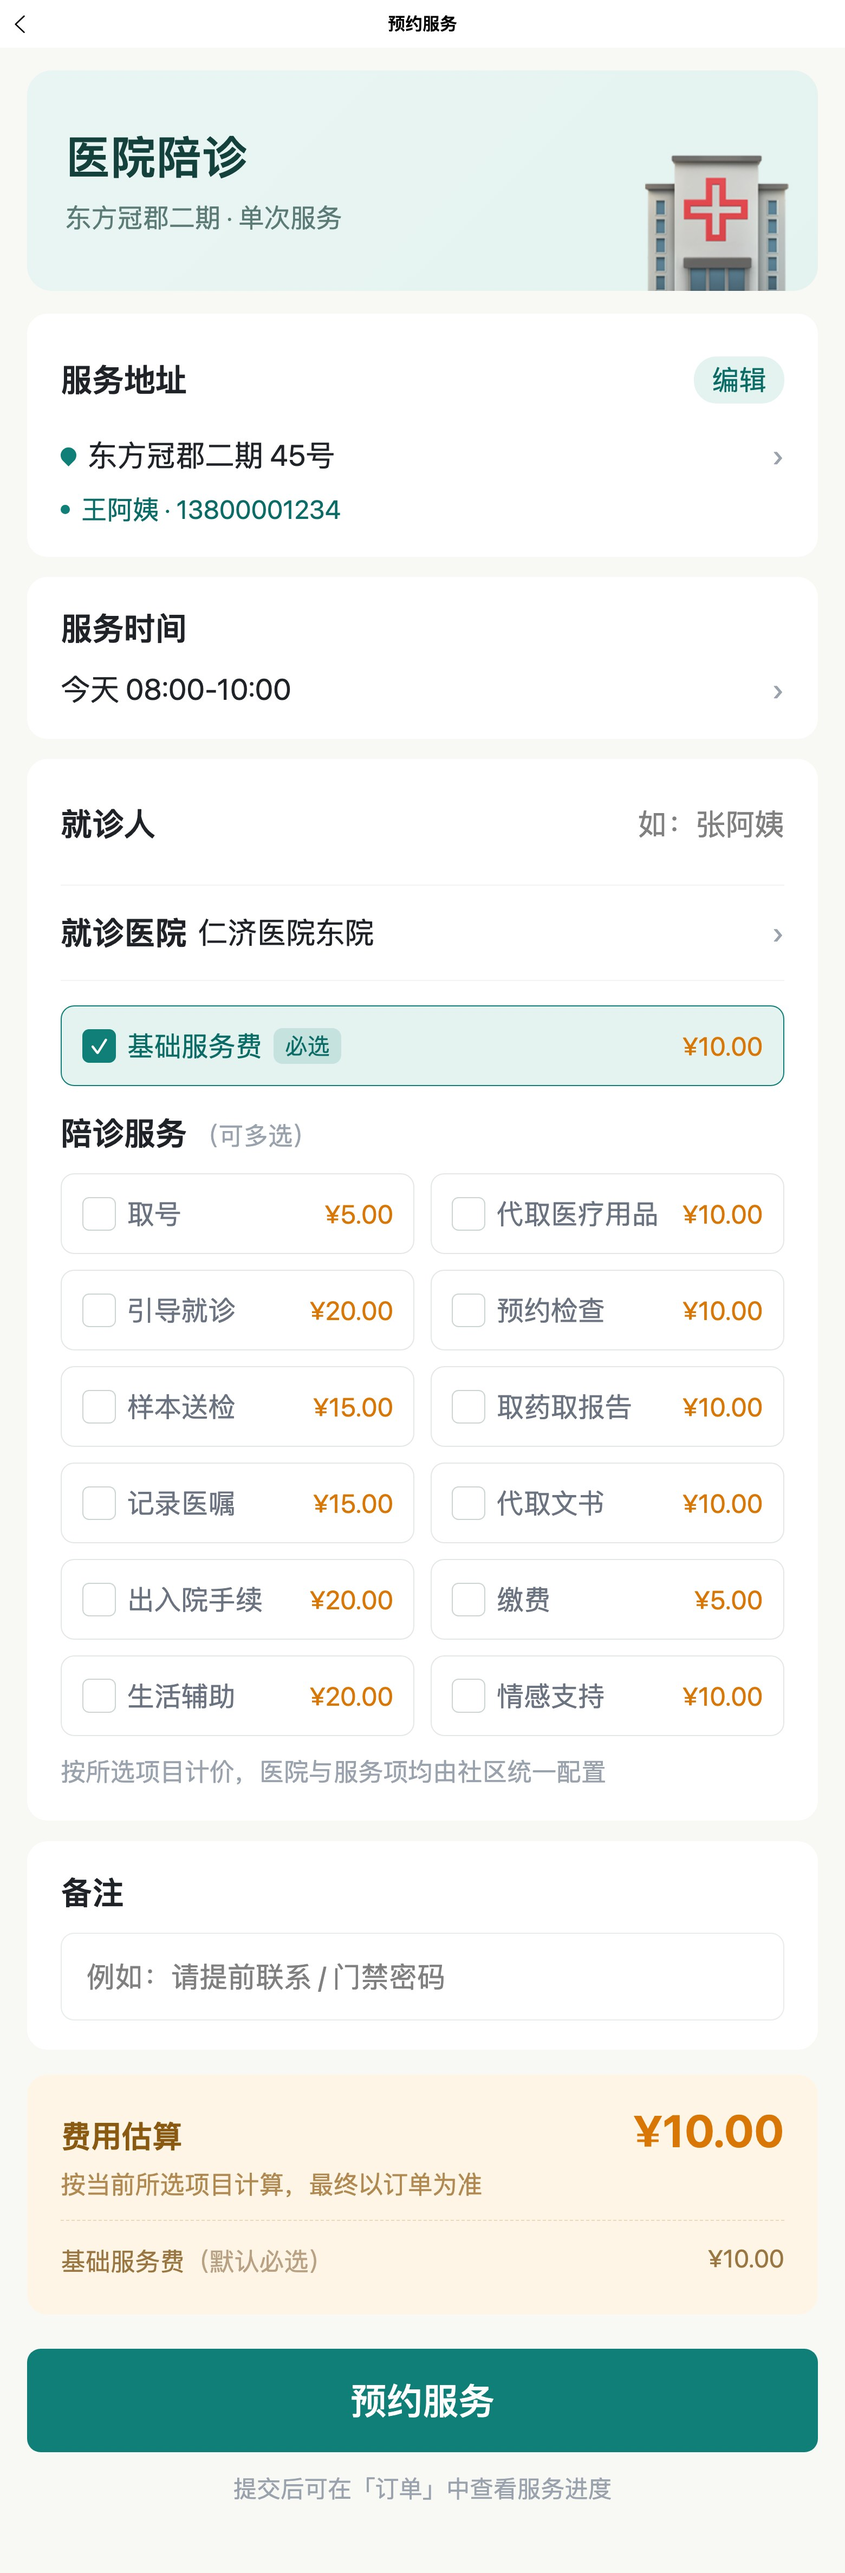
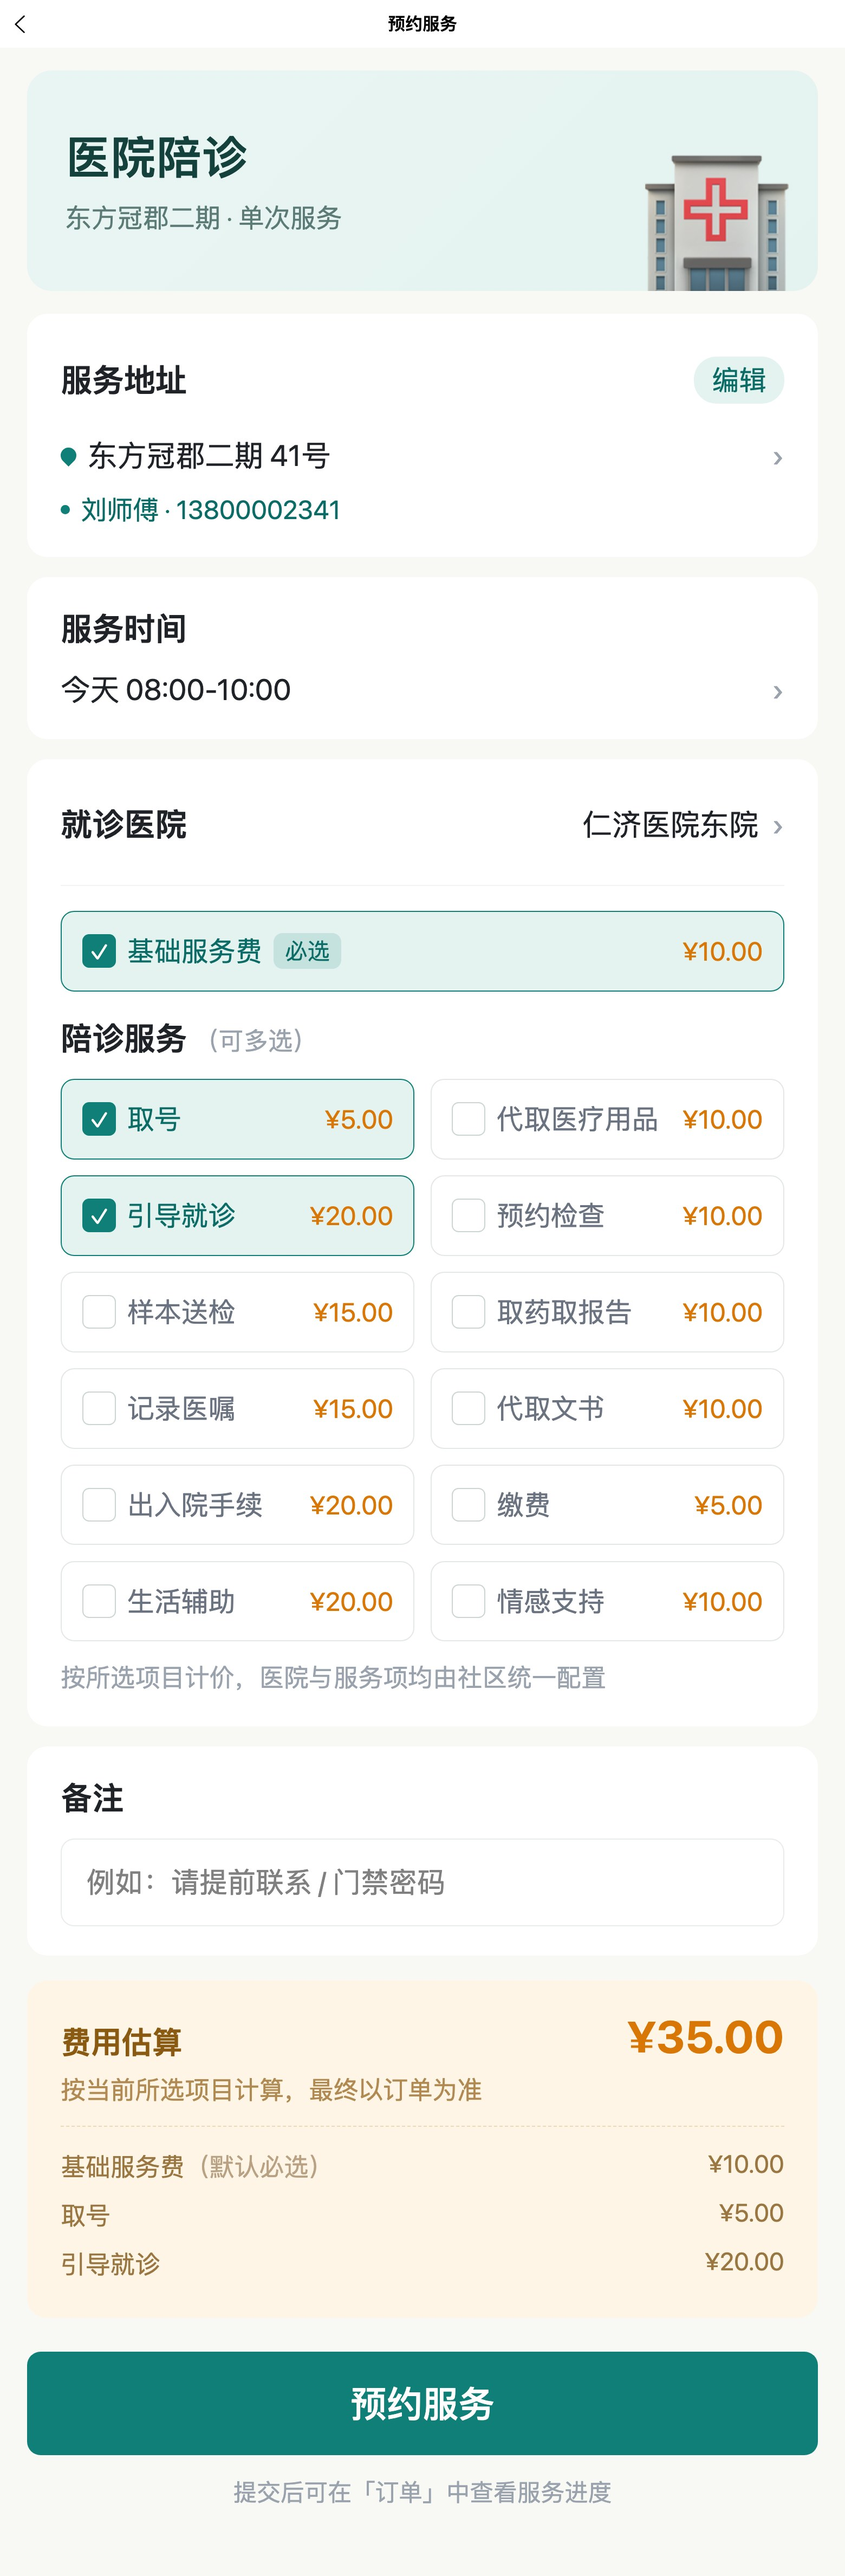
fix: 陪诊页编辑入口、就诊人与医院对齐三处修复
- 修复地址卡「编辑」误弹新增：模板漏带括号导致事件对象被当作 id，改为显式传 currentAddress.id 并加类型守卫

- 取消就诊人输入，patient_name 直接取服务地址联系人

- 就诊医院名右对齐显示；重截陪诊页与地址编辑弹层截图

diff --git a/miniapp/src/pages/order/create.vue b/miniapp/src/pages/order/create.vue
@@ -39,7 +39,6 @@ const form = reactive({
   durationMin: 20,
   feedOnly: false,
   needFamiliar: false,
-  patientName: '',
   hospital: '', // 存 code，名称从后台选项映射
   serviceItems: [] as string[], // 已勾选的陪诊服务项 code
   remark: '',
@@ -214,8 +213,9 @@ function buildPayload(): CreateOrderPayload | null {
     payload.need_familiar = form.needFamiliar
   } else {
     // 陪诊：只回传后台配置项的 code，价格由后端按 SKU 规则计算
+    // 就诊人直接取服务地址的联系人，不再单独输入
     payload.hospital = form.hospital
-    payload.patient_name = form.patientName.trim()
+    payload.patient_name = addr.contact_name.trim()
     payload.service_items = [...form.serviceItems]
     payload.remark = form.remark
   }
@@ -264,10 +264,15 @@ function selectAddress(id: number) {
   refreshPreview()
 }
 
-/** 打开地址编辑：已有地址预填并走更新接口，没有地址则走新增 */
+/**
+ * 打开地址编辑：已有地址预填并走更新接口，没有地址则走新增。
+ * id 必须显式传数字：模板里若写 `@tap="openAddressEdit"` 会把事件对象当 id 传入，
+ * 导致匹配不到地址而误走新增，这里用 typeof 兜底。
+ */
 function openAddressEdit(id?: number) {
-  const a = id
-    ? user.addresses.find((x) => x.id === id)
+  const targetId = typeof id === 'number' ? id : 0
+  const a = targetId
+    ? user.addresses.find((x) => x.id === targetId)
     : user.currentAddress
   editingAddressId.value = a?.id || 0
   addressForm.community = a?.community || ''
@@ -439,7 +444,7 @@ async function startPay(orderNo: string) {
     <view class="card">
       <view class="f-row">
         <view class="f-label">服务地址</view>
-        <text class="addr-edit" @tap.stop="openAddressEdit">编辑</text>
+        <text class="addr-edit" @tap.stop="openAddressEdit(user.currentAddress?.id)">编辑</text>
       </view>
       <view class="f-value" :class="{ placeholder: !addressText }" @tap="chooseAddress">
         <view class="pin" />
@@ -531,17 +536,14 @@ async function startPay(orderNo: string) {
       <view class="f-hint">累计完成 5 单后免熟悉费</view>
     </view>
 
-    <!-- 陪诊信息：医院只能从后台选项选，服务项可多选 -->
+    <!-- 陪诊信息：就诊人取服务地址联系人；医院只能从后台选项选，右对齐展示 -->
     <view v-if="form.serviceType === 'accompany'" class="card">
-      <view class="f-row">
-        <view class="f-label">就诊人</view>
-        <input v-model="form.patientName" class="f-input" placeholder="如：张阿姨" />
-      </view>
-      <view class="divider" />
-      <view class="f-value" :class="{ placeholder: !hospitalName }" @tap="chooseHospital">
+      <view class="f-row hospital-row" @tap="chooseHospital">
         <view class="f-label">就诊医院</view>
-        <text class="f-text">{{ hospitalName || '请选择就诊医院' }}</text>
-        <text class="chev">›</text>
+        <view class="hospital-value" :class="{ placeholder: !hospitalName }">
+          <text>{{ hospitalName || '请选择就诊医院' }}</text>
+          <text class="chev">›</text>
+        </view>
       </view>
       <view class="divider" />
       <!-- 基础服务费：默认必选，勾选态锁定，价格展示用，金额由后端算 -->
@@ -797,6 +799,23 @@ async function startPay(orderNo: string) {
 .f-label-sub {
   font-size: 22rpx;
   font-weight: 400;
+  color: var(--text-light);
+}
+
+/* 就诊医院：标签靠左、选中医院右对齐，与原就诊人输入框视觉一致 */
+.hospital-row {
+  padding: 8rpx 0;
+}
+
+.hospital-value {
+  display: flex;
+  align-items: center;
+  gap: 12rpx;
+  font-size: 26rpx;
+  color: var(--text);
+}
+
+.hospital-value.placeholder {
   color: var(--text-light);
 }
 
